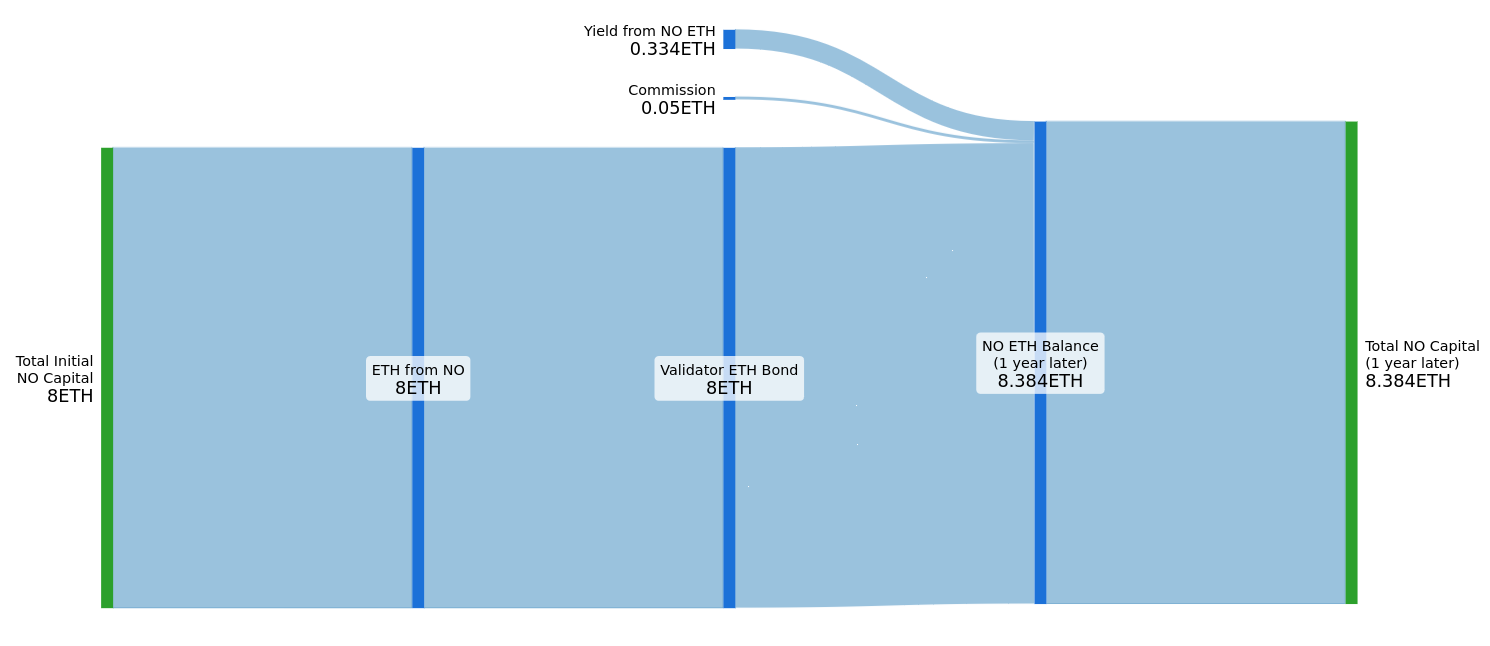
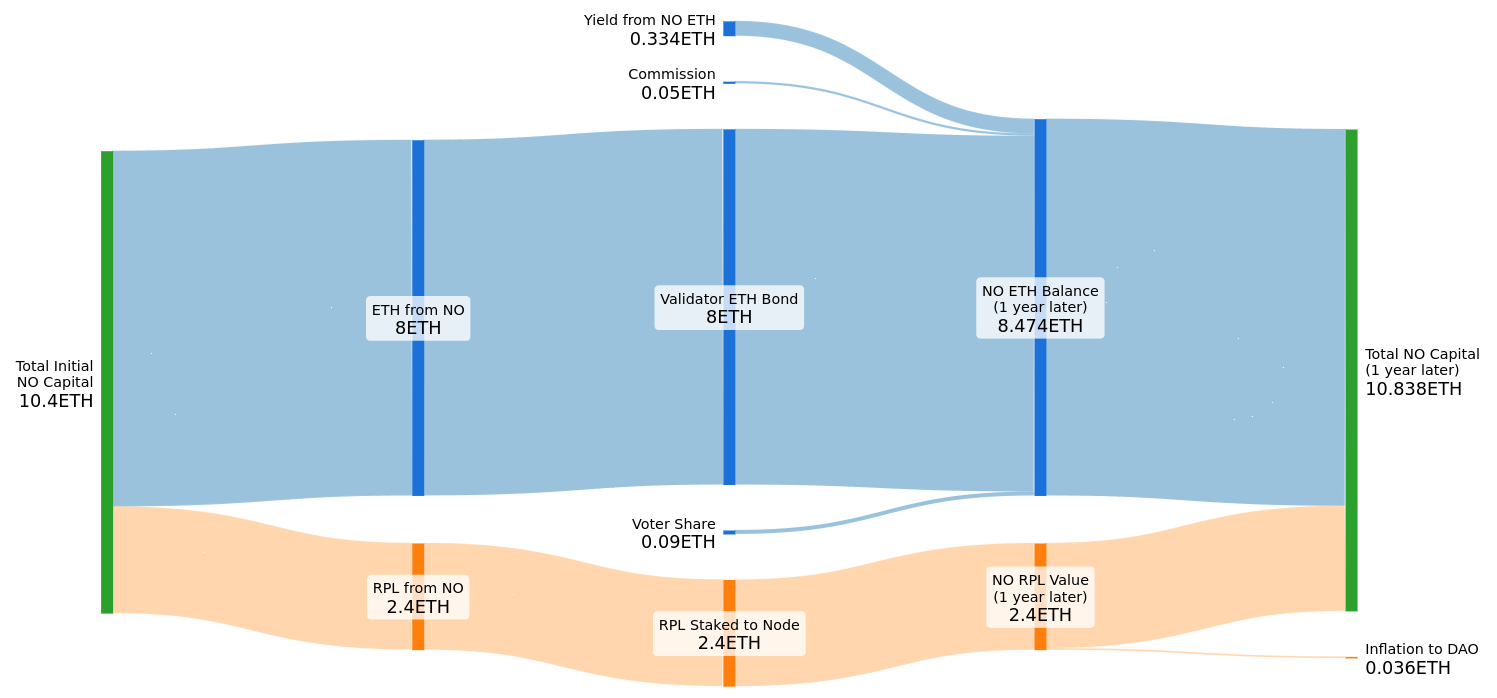
reorder to make comparison to existing simpler

diff --git a/tokenomics-explainers/003-rework-foundation.md b/tokenomics-explainers/003-rework-foundation.md
@@ -64,31 +64,31 @@ The node operator earns solo staking APY on their bond (0.334 ETH), 14% commissi
 
 The end result is that the node operator would make **1.14x solo staking APY right now**. At maturity, RPL would approach ~100% staked, at which point RPL rewards and Inflation to node operators cancel each other out resulting in **1.01x solo staking APY**. Back to the current state, if a node operator loses eligibility for RPL rewards (which often happens due to falling RPL/ETH price ratio), the loss of the 0.14ETH in RPL rewards would result in **0.82x solo staking APY**.
 
-**Proposal using ETH-Only allocation**  
+**Proposal using current minimum LEB8 allocation**  
 <img src="../assets/tokenomics-explainers/003-figure-3.png" alt="Figure 3" width="1000px"></br>
-_Figure 3 - Proposal ETH-Only Sankey Diagram_
+_Figure 3 - Proposal w/minimum LEB8 Allocation Sankey Diagram_
+
+The node operator earns solo staking APY on their bond (0.334 ETH), 5% commission on the borrowed ETH (0.05 ETH), and 9% revenue share on their vote-eligible RPL (0.09 ETH)[^2]. Meanwhile, they lose RPL value to inflation going to DAO expenses (0.036 ETH). At first glance the only difference from the current LEB8 example is the splitting of rewards into two categeories, and the removal of RPL issuance rewards (reminder: RPL issuance rewards will continue in Saturn 1 but discontinue in Saturn 2).
+
+The end result is that the node operator would make **1.01x solo staking APY right now**. Note that voter share depends on your exposure to RPL relative to other node operators. Eg, if half of the validators are ETH-Only and half look like this node operator, then the voter share reward to this node operator would double to 0.18 ETH; that would result in **1.22x solo staking APY**. This dynamic will be explored further with the ETH-Only allocation example and the Case Study below.
+
+**Proposal using ETH-Only allocation**  
+<img src="../assets/tokenomics-explainers/003-figure-4.png" alt="Figure 4" width="1000px"></br>
+_Figure 4 - Proposal ETH-Only Sankey Diagram_
 
 The node operator earns solo staking APY on their bond (0.334 ETH), and 5% commission on the borrowed ETH (0.05 ETH).
 
 The end result is that the node operator would make **1.15x solo staking APY right now**.
 
-**Proposal using current minimum LEB8 allocation**  
-<img src="../assets/tokenomics-explainers/003-figure-4.png" alt="Figure 4" width="1000px"></br>
-_Figure 4 - Proposal w/minimum LEB8 Allocation Sankey Diagram_
-
-The node operator earns solo staking APY on their bond (0.334 ETH), 5% commission on the borrowed ETH (0.05 ETH), and 9% revenue share on their vote-eligible RPL (0.09 ETH)[^2]. Meanwhile, they lose RPL value to inflation going to DAO expenses (0.036 ETH). 
-
-The end result is that the node operator would make **1.01x solo staking APY right now**. Note that voter share depends on your exposure to RPL relative to other node operators. Eg, if half of the validators are ETH-Only and half look like this node operator, then the voter share reward to this node operator would double to 0.18 ETH; that would result in **1.22x solo staking APY**. This dynamic will be explored further in the Case Study below.
-
 #### Case Study: ETH-Only is Preferred by Node Operators
 
-**Proposal Example, Reference**  
+**Proposal Case Study, Reference**  
 <img src="../assets/tokenomics-explainers/003-figure-5.png" alt="Figure 5" width="1000px"></br>
 _Figure 5 - Case Study Reference Sankey Diagram_
 
 In this case study, we have 3 node operators (NOs). (A) has 8 ETH and no RPL staked. (B) has 8 ETH and 6 ETH worth of RPL staked. (C) has 8 ETH and 15 ETH worth of RPL staked (note that vote-eligible RPL is capped at 150% of bonded ETH. This leads to NO C earning twice as much from "Voter Share" as NO B).
 
-**Proposal Example, 9 more ETH-Only Node Operators join**  
+**Proposal Case Study, 9 more ETH-Only Node Operators join**  
 <img src="../assets/tokenomics-explainers/003-figure-6.png" alt="Figure 6" width="1000px"></br>
 _Figure 6 - Case Study ETH-Only Growth Sankey Diagram_
 
